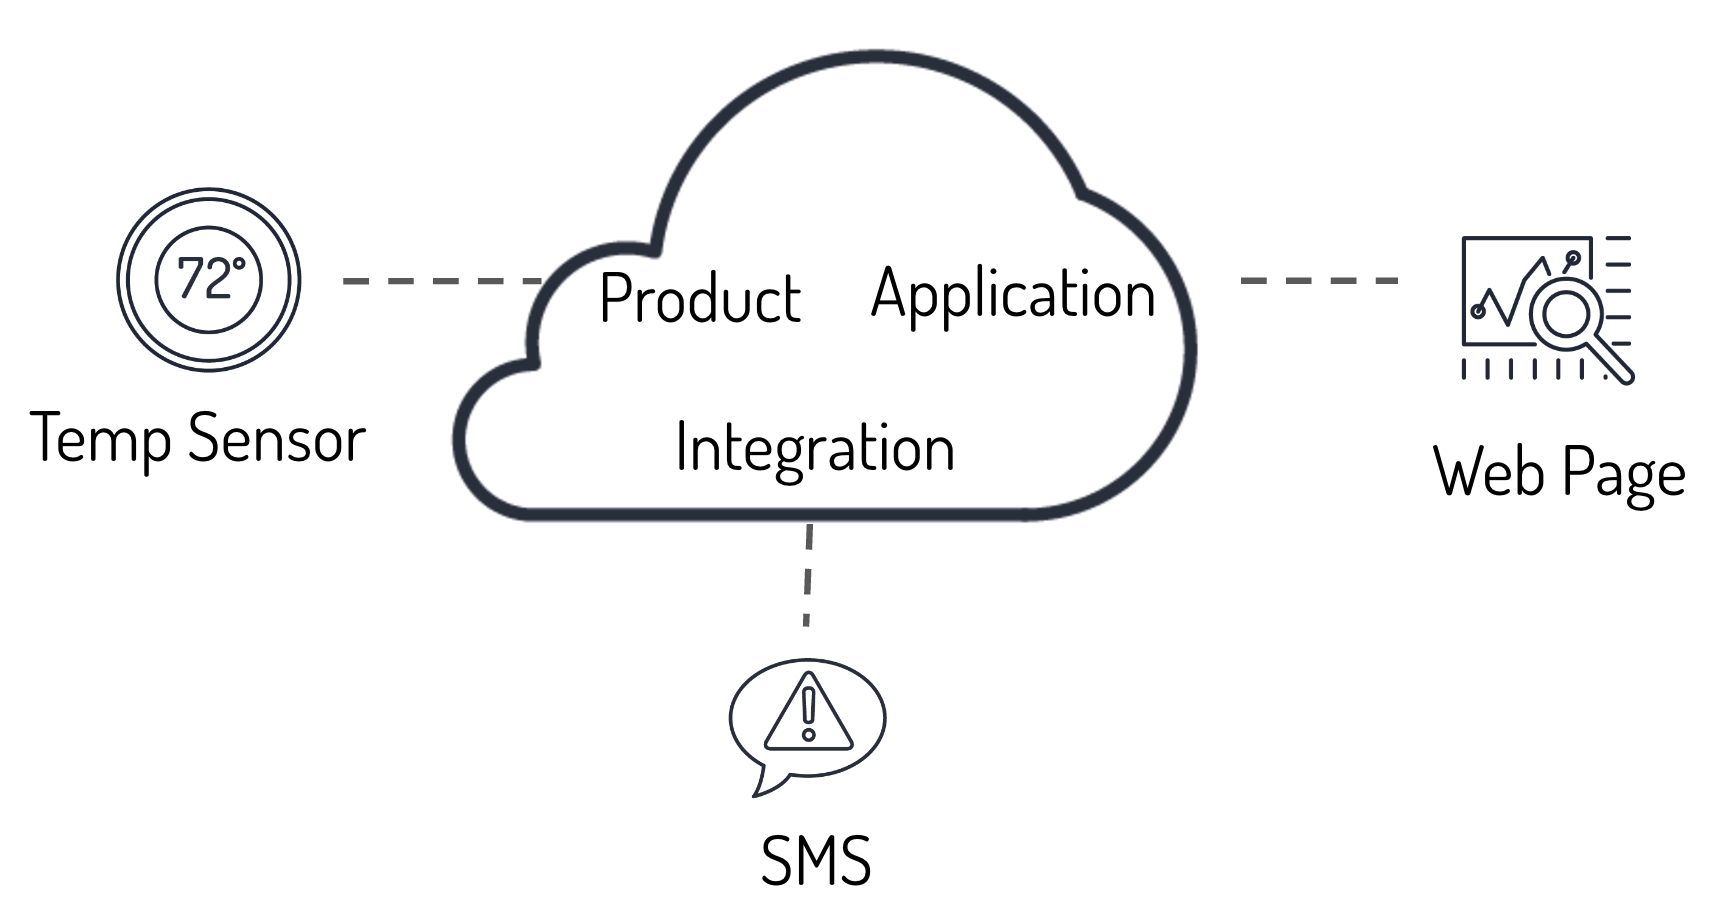
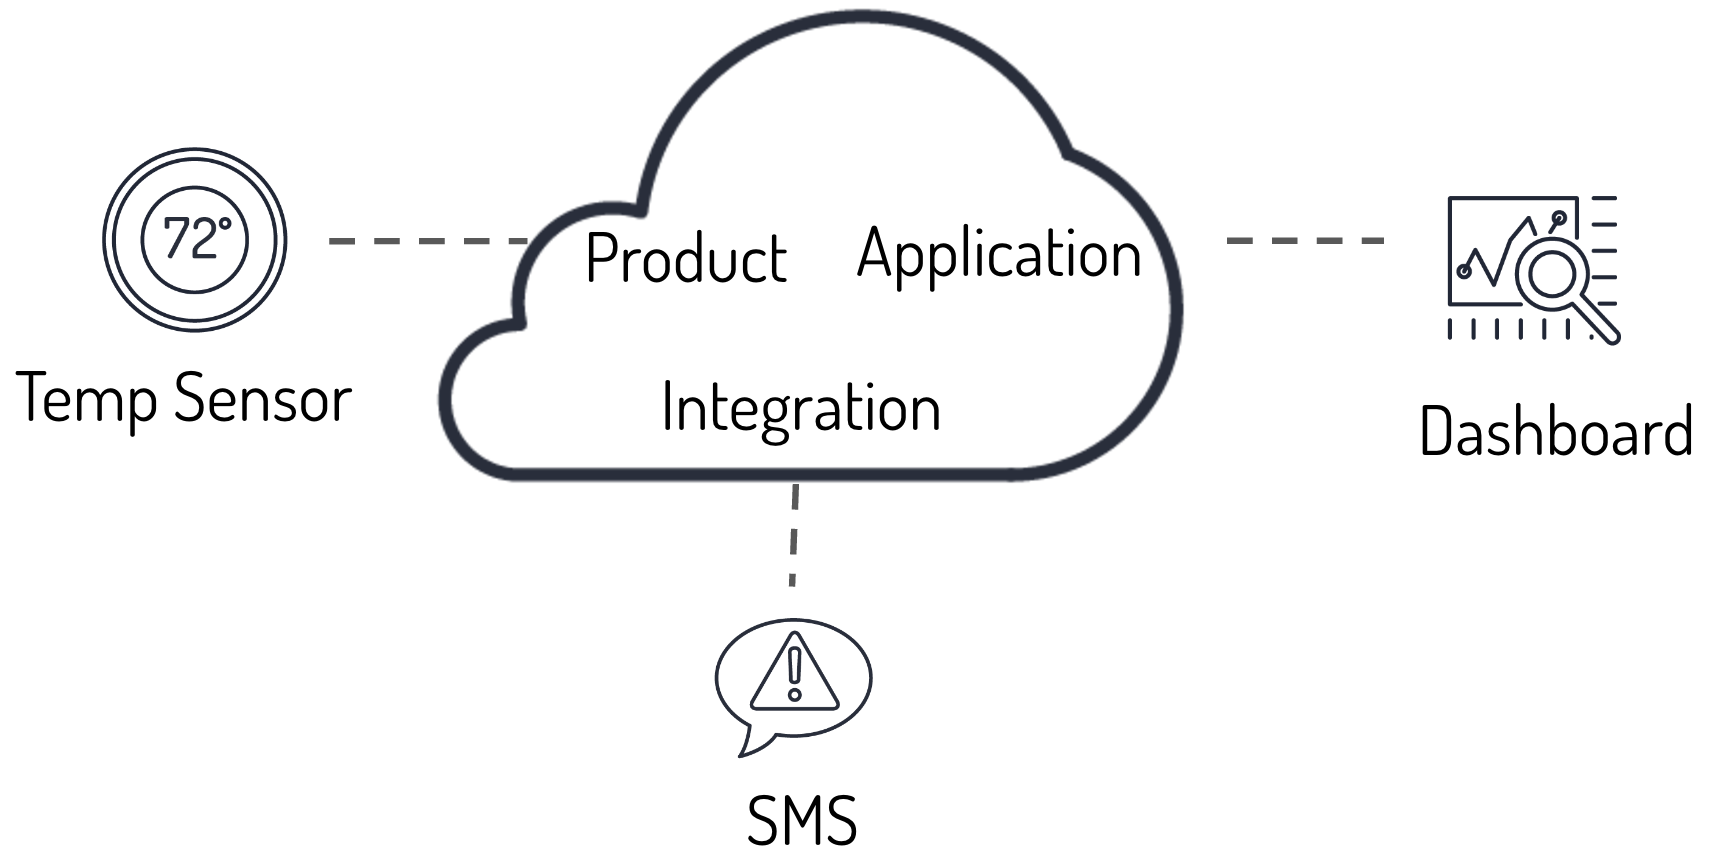
clean up of syntax and representation

diff --git a/guides/data-flow.md b/guides/data-flow.md
@@ -5,7 +5,7 @@ template: default
 
 # Guide: Data Flow in Murano
 
-The basic components of an IoT system are Internet-connected hardware Products, real-time User Applications, and Integrations with external web & IT services.  As a Murano developer, to get these components working together, it is helpful to understand how the data flows within Murano.  This guide walks through a super simple Murano data flow that involves each of these basic components.
+The basic components of an IoT system are Internet-connected hardware Products, real-time User Applications, and Integrations with external web & IT services.  As a Murano developer, to get these components working together, it is helpful to understand how the data flows within Murano.  This guide walks through a Murano data flow that involves each of these basic components.
 
 <img src="/guides/assets/mdf-iot-simple-diagram.png" height="200" alt="Simple IoT System">
 
@@ -23,7 +23,7 @@ In our simplified system, let's have the temperature sensor communicate temperat
 To make that happen:
 * **Product:** Every 10 minutes, the temperature sensor wakes up, measures the temperature, and sends the value as the variable "temp" via one of the Murano data APIs (e.g. the <a href="/reference/products/device-api/http/" target="_blank">HTTP API</a>)
 * **Application:** Upon User load (or auto-refresh), the web page fetches the temperature history from a configured <a href="/guides/api-application/" target="_blank">API Application</a> that exposes a /history URL endpoint that returns the last N number of temperature values
-* **Integration:** As soon as the system detects that the data exceeds the 100 C threshold, an SMS message is sent out by an SMS gateway service (e.g. <a href="/reference/services/twilio/" target="_blank">Twilio</a>) to a user's phone
+* **Integration:** As soon as the system detects that the data exceeds the 100 C threshold, an SMS message is sent out by an <a href="/reference/services/twilio/" target="_blank">SMS gateway service</a> to a user's phone
  
 <img src="/guides/assets/mdf-iot-component-external-flow.png" height="300" alt="Simple IoT System">
 
@@ -37,7 +37,7 @@ Inside of Murano, this is what is happening:
 
 **Project Configuration:**
 
-A Product called "Temp Sensor" was created to authenticate temperature sensor Devices, and to manage all aspects of the Devices - all device traffic uses the Product URL created when the Product is instantiated.  An Application called "Web Page" was created to authenticate Users and to respond to User-driven events on a web page - configurable API Endpoints at the Application URL are created when the Application is instantiated. The Integration service "<a href="/reference/services/twilio/" target="_blank">Twilio</a>" was added to send out SMS messages.  And, the <a href="/reference/services/tsdb/" target="_blank">TSDB Service</a> is available to all Projects as a built-in Service.  All <a href="/reference/services/" target="_blank">Built-In Services</a> are available to the Rules Engines for both the Product and the Application.  
+A Product called "Temp Sensor" was created to authenticate temperature sensor Devices, and to manage all aspects of the Devices - all device traffic uses the Product URL created when the Product is instantiated.  An Application called "Dashboard" was created to authenticate Users and to respond to User-driven events on a web page - configurable API Endpoints at the Application URL are created when the Application is instantiated. The <a href="/reference/services/twilio/" target="_blank">Integration service for Twilio</a> was added to send out SMS messages.  And, the <a href="/reference/services/tsdb/" target="_blank">TSDB Service</a> is available to all Projects as a built-in Service.  All <a href="/reference/services/" target="_blank">Built-In Services</a> are available to the Rules Engines for both the Product and the Application.  
 
 **Blue Path:** 
 
@@ -49,7 +49,7 @@ When the warning flag is set in the product status array, that message is carrie
 
 1. Check the "product status" array for warnings
 2. Lookup the User contact information that is assigned as the alert recipient for an over-temperature warning
-3. Send a message, "Over Temp!" to the alert recipient via the <a href="../../reference/services/twilio/" target="_blank">Twilio Integration Service</a> postMessage API (requires Twilio credentials) which uses the <a href="https://www.twilio.com" target="_blank">Twilio SMS External Web Sevice</a>
+3. Send a message, "Over Temp!" to the alert recipient via Murano's <a href="../../reference/services/twilio/" target="_blank">SMS Integration service</a> for <a href="https://www.twilio.com" target="_blank">Twilio</a>
 
 
 **Orange Path:**
